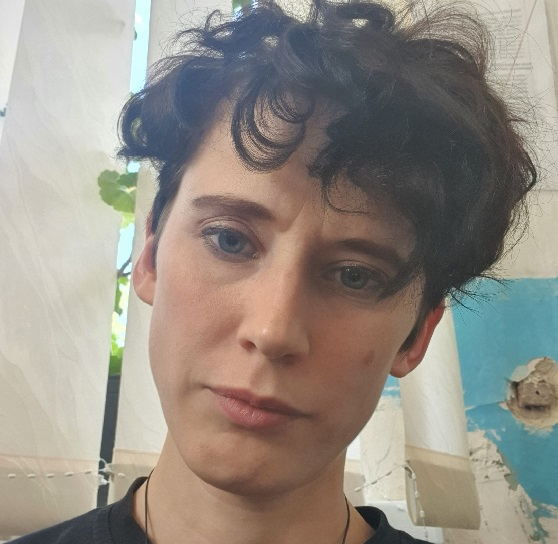
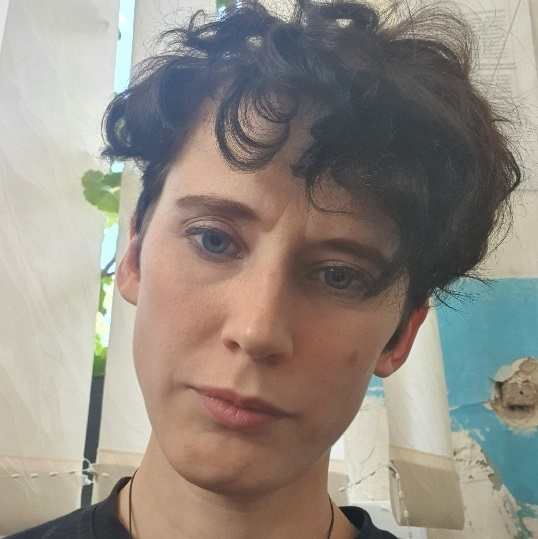
попиталась зробити сторінку новин, але акордеон не працює
сторінка новин. фотки деяких працівників загрузила, адаптивна верстка слайдера знов хромала, підправила

diff --git a/css/style.min.css b/css/style.min.css
@@ -1,1 +1,1 @@
-@import url(https://fonts.googleapis.com/css2?family=Ribeye+Marrow&display=swap);body{font-family:'Ribeye Marrow',sans-serif;color:#000}*{box-sizing:border-box}.header{padding:15px 0 0 15px;background-color:#7ee5e5;display:block;position:fixed;z-index:2;width:100%}.post{margin-left:53px;height:25px;background:#c57226;padding:5px}.block{display:inline-block;margin:0 40px 0 0}.logo{display:inline-block;background-color:#000;color:#e3ae7d;padding:10px 3px;margin-right:5px;font-size:18px}.csp{font-size:18px}.button{border:solid;border-color:#000;border-width:1px;background-color:#e3ae7d;padding:15px 45px;text-decoration:none;color:#000;margin:30px 0 200px 0;border-radius:5px;cursor:pointer}.aboutsheet{display:none;position:fixed;height:50%;width:50%;left:50%;top:50%;transform:translate(-50%,-50%);border:solid;border-color:#000;border-width:1px;background-color:#e3ae7d;border-radius:5px;padding:5%}.aboutsheet h2{text-align:center;color:#000;font-size:25px}.aboutsheet p{padding-top:10px;color:#000;font-size:15px}.inline-header{text-decoration:none;color:#000;margin:0 40px 0 0}.viddil{margin:200px 0 -430px 0}.viddil-old{color:#807ee5;background-color:#fff;padding:15px;height:330px;box-shadow:0 4px 4px #50a058;border-radius:30px;text-align:center}.viddil-fam{color:#00c814;background-color:#fff;padding:15px;height:330px;box-shadow:0 4px 4px #50a058;border-radius:30px;text-align:center}.brown-writings{color:#7d532b}#pos{text-shadow:1px 1px 2px #7d532b;display:inline-block;font-size:36px;margin-right:20px}.ne-pos{display:inline-block;text-shadow:1px 1px 2px red;font-size:36px}.section1{background:#fff url(../img/main-background.png) center center no-repeat;font-size:14px;padding:0 0 300px 0}.section1and2{background:#7ee5e5 url(../img/section1-2-background.png) center center no-repeat}.section2{font-size:14px;background-color:#fff}.section2 h2{font-size:36px;line-height:1.3;margin:190px 0 35px 0}.section2 h3{font-size:22px;vertical-align:top;line-height:1.2;padding-bottom:5px}.section3{padding:70px 0 0 0;background-color:#f1dac5}.section3 h3{text-shadow:1px 1px 2px red;font-size:24px;margin-bottom:25px}.section4{background-color:#00c814;color:#ddffc9;font-size:36px;padding:50px 0 30px 0;font-size:14px}.section4 p{font-size:22px}.section4 h2{padding-bottom:30px;padding-top:10px}.section5{background-color:#000;color:#fff;padding:50px 0 40px 0}.section1 h1{padding:150px 0 20px 0;font-size:48px;line-height:1.4}.section1 .subtitle{font-size:24px;line-height:1.5;padding:0 0 50px 0}.star img{height:100px;float:left}.star *{margin:0}.star{vertical-align:top;display:inline-block;height:135px;width:510px}.long{width:600px}.down{margin-bottom:10px}.box1,.box2{background-color:#fff;height:166px;width:200px;display:inline-block;font-size:16px;text-align:center;margin:0 15px 30px 0;vertical-align:top;border-radius:30px}.box1{box-shadow:1px 5px 5px #7d532b}.box2{box-shadow:1px 5px 5px red}.box11,.box26,.box27,.box30{padding:32px 0}.box13,.box15,.box21,.box28{padding:20px 0}.box12,.box16,.box22,.box23,.box25,.box31{padding:7px 0}.box24{padding:44px 0}.box29{padding:56px 0}.people-block{margin-right:15px;background-color:transparent;border-radius:30px;margin-bottom:1%}.people-block h3{text-align:center}.people-block p{display:none}.podlozhka{display:none}#contact{font-size:22px;line-height:2}.triangles img{height:30px}.triangles{display:inline-block;padding-top:70px;margin-left:-14px}.box11 img{margin-top:-55px;margin-left:30px}.box1 img{position:absolute}.box2 img{position:absolute}.box21 img{margin-left:-31px;margin-top:-52px}.box22 img{margin-left:-35px;margin-top:-25px}.box23 img{margin-left:-40px;margin-top:95px}.box24 img{margin-left:-30px;margin-top:-70px}.box12 img{margin-left:44px;margin-top:-54px}.box13 img{margin-left:35px;margin-top:-40px}.box14 img{margin-left:-18px;margin-top:28px}.box25 img{margin-left:-53px;margin-top:133px}.box26 img{margin-left:-50px;margin-top:-40px}.box15 img{margin-left:-55px;margin-top:-55px}.box27 img{margin-left:-6px;margin-top:93px}.box28 img{margin-left:-66px;margin-top:-52px}.box29 img{margin-left:-75px;margin-top:-37px}.box30 img{margin-left:68px;margin-top:-42px}.box31 img{margin-left:105px;margin-top:15px}.box16 img{margin-left:125px;margin-top:-35px}.viddil-old img{height:100%;padding:0;margin-left:-45px;margin-top:-45px;background:0 0}.viddil-fam img{height:110%;padding:0;background:0 0;margin-left:-20px;margin-top:-45px}.people-slider{position:relative}.prev{width:50px;height:75px;z-index:1;background:transparent url(../img/leftbutton.png) center center no-repeat;border:none;position:absolute;margin-top:140px;margin-left:-25px}.next{width:50px;height:75px;background:transparent url(../img/rightbutton.png) center center no-repeat;border:none;position:absolute;right:-10px;top:140px}.photo{width:90%;height:80%;padding:5%;margin-left:5%;border-radius:30px}.menu{height:60px;width:40px;background:#fff;position:fixed}
+@import url(https://fonts.googleapis.com/css2?family=Ribeye+Marrow&display=swap);body{font-family:'Ribeye Marrow',sans-serif;color:#000}*{box-sizing:border-box}.header{padding:15px 0 0 15px;background-color:#7ee5e5;display:block;position:fixed;z-index:2;width:100%}.post{margin-left:53px;height:25px;background:#c57226;padding:5px}.block{display:inline-block;margin:0 40px 0 0}.logo{display:inline-block;background-color:#000;color:#e3ae7d;padding:10px 3px;margin-right:5px;font-size:18px}.csp{font-size:18px}.button{border:solid;border-color:#000;border-width:1px;background-color:#e3ae7d;padding:15px 45px;text-decoration:none;color:#000;margin:30px 0 200px 0;border-radius:5px;cursor:pointer}.aboutsheet{display:none;position:fixed;height:50%;width:50%;left:50%;top:50%;transform:translate(-50%,-50%);border:solid;border-color:#000;border-width:1px;background-color:#e3ae7d;border-radius:5px;padding:5%}.aboutsheet h2{text-align:center;color:#000;font-size:25px}.aboutsheet p{padding-top:10px;color:#000;font-size:15px}.inline-header{text-decoration:none;color:#000;margin:0 40px 0 0}.viddil{margin:200px 0 -430px 0}.viddil-old{color:#807ee5;background-color:#fff;padding:15px;height:330px;box-shadow:0 4px 4px #50a058;border-radius:30px;text-align:center}.viddil-fam{color:#00c814;background-color:#fff;padding:15px;height:330px;box-shadow:0 4px 4px #50a058;border-radius:30px;text-align:center}.brown-writings{color:#7d532b}#pos{text-shadow:1px 1px 2px #7d532b;display:inline-block;font-size:36px;margin-right:20px}.ne-pos{display:inline-block;text-shadow:1px 1px 2px red;font-size:36px}.section1{background:#fff url(../img/main-background.png) center center no-repeat;font-size:14px;padding:0 0 300px 0}.section1and2{background:#7ee5e5 url(../img/section1-2-background.png) center center no-repeat}.section2{font-size:14px;background-color:#fff}.section2 h2{font-size:36px;line-height:1.3;margin:190px 0 35px 0}.section2 h3{font-size:22px;vertical-align:top;line-height:1.2;padding-bottom:5px}.section3{padding:70px 0 0 0;background-color:#f1dac5}.section3 h3{text-shadow:1px 1px 2px red;font-size:24px;margin-bottom:25px}.section4{background-color:#00c814;color:#ddffc9;font-size:36px;padding:50px 0 30px 0;font-size:14px}.section4 p{font-size:22px}.section4 h2{padding-bottom:30px;padding-top:10px}.section5{background-color:#000;color:#fff;padding:50px 0 40px 0}.section1 h1{padding:150px 0 20px 0;font-size:48px;line-height:1.4}.section1 .subtitle{font-size:24px;line-height:1.5;padding:0 0 50px 0}.star img{height:100px;float:left}.star *{margin:0}.star{vertical-align:top;display:inline-block;height:135px;width:510px}.long{width:600px}.down{margin-bottom:10px}.box1,.box2{background-color:#fff;height:166px;width:200px;display:inline-block;font-size:16px;text-align:center;margin:0 15px 30px 0;vertical-align:top;border-radius:30px}.box1{box-shadow:1px 5px 5px #7d532b}.box2{box-shadow:1px 5px 5px red}.box11,.box26,.box27,.box30{padding:32px 0}.box13,.box15,.box21,.box28{padding:20px 0}.box12,.box16,.box22,.box23,.box25,.box31{padding:7px 0}.box24{padding:44px 0}.box29{padding:56px 0}.people-block{margin-right:15px;background-color:transparent;border-radius:30px;margin-bottom:1%}.people-block h3{text-align:center}.people-block p{display:none}.podlozhka{display:none}#contact{font-size:22px;line-height:2}.triangles img{height:30px}.triangles{display:inline-block;padding-top:70px;margin-left:-14px}.box11 img{margin-top:-55px;margin-left:30px}.box1 img{position:absolute}.box2 img{position:absolute}.box21 img{margin-left:-31px;margin-top:-52px}.box22 img{margin-left:-35px;margin-top:-25px}.box23 img{margin-left:-40px;margin-top:95px}.box24 img{margin-left:-30px;margin-top:-70px}.box12 img{margin-left:44px;margin-top:-54px}.box13 img{margin-left:35px;margin-top:-40px}.box14 img{margin-left:-18px;margin-top:28px}.box25 img{margin-left:-53px;margin-top:133px}.box26 img{margin-left:-50px;margin-top:-40px}.box15 img{margin-left:-55px;margin-top:-55px}.box27 img{margin-left:-6px;margin-top:93px}.box28 img{margin-left:-66px;margin-top:-52px}.box29 img{margin-left:-75px;margin-top:-37px}.box30 img{margin-left:68px;margin-top:-42px}.box31 img{margin-left:105px;margin-top:15px}.box16 img{margin-left:125px;margin-top:-35px}.viddil-old img{height:100%;padding:0;margin-left:-45px;margin-top:-45px;background:0 0}.viddil-fam img{height:110%;padding:0;background:0 0;margin-left:-20px;margin-top:-45px}.people-slider{position:relative}.prev{width:50px;height:75px;z-index:1;background:transparent url(../img/leftbutton.png) center center no-repeat;border:none;position:absolute;margin-top:140px;margin-left:-25px}.next{width:50px;height:75px;background:transparent url(../img/rightbutton.png) center center no-repeat;border:none;position:absolute;right:-10px;top:140px}.photo{width:90%;height:80%;padding:5%;margin-left:5%;border-radius:30px}.menu{height:60px;width:40px;background:#fff;position:fixed}.newsh1{text-align:center;background-color:#000;color:#ff0;margin-bottom:0}.mainlink{position:fixed;top:12px;color:#fff;text-decoration:none;font-size:12px}.mainlink:hover{color:#ff0;text-decoration:underline}.cspphoto{width:100%}.collapse{display:block}

diff --git a/news.html b/news.html
@@ -4,10 +4,65 @@
 	<meta charset="UTF-8">
 	<meta name="viewport" content="width=device-width, initial-scale=1.0">
 	<title>Новини центру соціальних послуг</title>
+	<link rel="stylesheet" href="slick/slick.css">
+	<link rel="stylesheet" href="slick/slick-theme.css">
+	<link rel="stylesheet" href="css/bootstrap.css">
 	<link rel="stylesheet" href="css/style.css">
+	<link rel="stylesheet" href="css/main.css">
 </head>
 <body>
-	<h1>Новини Центру соціальних послуг Буцької селищної ради</h1>
-	<a class="inline-header" href="index.html">На головну</a>
+	<h1 class="newsh1">Новини Центру соціальних послуг Буцької селищної ради</h1>
+	<a class="mainlink" href="index.html">На головну</a>
+	<img class="cspphoto" src="img/csp.jpg" alt="ЦСП">
+	<div class="panel-group" id="accordion" role="tablist" aria-multiselectable="true">
+  <div class="panel panel-default">
+    <div class="panel-heading" role="tab" id="headingOne">
+      <h4 class="panel-title">
+        <a role="button" data-toggle="collapse" data-parent="#accordion" href="#collapseOne" aria-expanded="true" aria-controls="collapseOne">
+          Collapsible Group Item #1
+        </a>
+      </h4>
+    </div>
+    <div id="collapseOne" class="panel-collapse collapse in" role="tabpanel" aria-labelledby="headingOne">
+      <div class="panel-body">
+        Anim pariatur cliche reprehenderit, enim eiusmod high life accusamus terry richardson ad squid. 3 wolf moon officia aute, non cupidatat skateboard dolor brunch. Food truck quinoa nesciunt laborum eiusmod. Brunch 3 wolf moon tempor, sunt aliqua put a bird on it squid single-origin coffee nulla assumenda shoreditch et. Nihil anim keffiyeh helvetica, craft beer labore wes anderson cred nesciunt sapiente ea proident. Ad vegan excepteur butcher vice lomo. Leggings occaecat craft beer farm-to-table, raw denim aesthetic synth nesciunt you probably haven't heard of them accusamus labore sustainable VHS.
+      </div>
+    </div>
+  </div>
+  <div class="panel panel-default">
+    <div class="panel-heading" role="tab" id="headingTwo">
+      <h4 class="panel-title">
+        <a class="collapsed" role="button" data-toggle="collapse" data-parent="#accordion" href="#collapseTwo" aria-expanded="false" aria-controls="collapseTwo">
+          Collapsible Group Item #2
+        </a>
+      </h4>
+    </div>
+    <div id="collapseTwo" class="panel-collapse collapse" role="tabpanel" aria-labelledby="headingTwo">
+      <div class="panel-body">
+        Anim pariatur cliche reprehenderit, enim eiusmod high life accusamus terry richardson ad squid. 3 wolf moon officia aute, non cupidatat skateboard dolor brunch. Food truck quinoa nesciunt laborum eiusmod. Brunch 3 wolf moon tempor, sunt aliqua put a bird on it squid single-origin coffee nulla assumenda shoreditch et. Nihil anim keffiyeh helvetica, craft beer labore wes anderson cred nesciunt sapiente ea proident. Ad vegan excepteur butcher vice lomo. Leggings occaecat craft beer farm-to-table, raw denim aesthetic synth nesciunt you probably haven't heard of them accusamus labore sustainable VHS.
+      </div>
+    </div>
+  </div>
+  <div class="panel panel-default">
+    <div class="panel-heading" role="tab" id="headingThree">
+      <h4 class="panel-title">
+        <a class="collapsed" role="button" data-toggle="collapse" data-parent="#accordion" href="#collapseThree" aria-expanded="false" aria-controls="collapseThree">
+          Collapsible Group Item #3
+        </a>
+      </h4>
+    </div>
+    <div id="collapseThree" class="panel-collapse collapse" role="tabpanel" aria-labelledby="headingThree">
+      <div class="panel-body">
+        Anim pariatur cliche reprehenderit, enim eiusmod high life accusamus terry richardson ad squid. 3 wolf moon officia aute, non cupidatat skateboard dolor brunch. Food truck quinoa nesciunt laborum eiusmod. Brunch 3 wolf moon tempor, sunt aliqua put a bird on it squid single-origin coffee nulla assumenda shoreditch et. Nihil anim keffiyeh helvetica, craft beer labore wes anderson cred nesciunt sapiente ea proident. Ad vegan excepteur butcher vice lomo. Leggings occaecat craft beer farm-to-table, raw denim aesthetic synth nesciunt you probably haven't heard of them accusamus labore sustainable VHS.
+      </div>
+    </div>
+  </div>
+</div>
+<script>
+$('.collapse').collapse('toggle');
+</script>
+<script src='https://code.jquery.com/jquery-1.12.4.min.js'></script>
+	<script src='https://code.jquery.com/jquery-migrate-3.4.0.min.js'></script>
+	<script src='slick/slick.min.js'></script>
 </body>
 </html>

diff --git a/index.html b/index.html
@@ -35,7 +35,7 @@
 		</div>
 	</div>
 </div>
-<div class="panel"></div>
+<div class="menu-button"></div>
 </div>
 	<div class="container">
 		<div class="section1">
@@ -213,7 +213,7 @@
 					<div class="people-block">
 						<div class="podlozhka"></div>
 <picture>
-	<img class="photo" src="img/profile.jpg" alt="Director">
+	<img class="photo" src="img/director.jpg" alt="Director">
 </picture>
 <h3>Директор</h3>
 <p>СТЕЦЕНКО <br> Тетяна <br>Олександрівна</p>	
@@ -221,7 +221,7 @@
 			<div class="people-block">
 				<div class="podlozhka"></div>
 				<picture>
-		<img class="photo" src="img/profile.jpg" alt="FSR">
+		<img class="photo" src="img/fcr.jpg" alt="FSR">
 				</picture>
 				<h3>Фахівець з соціальних <br>робіт</h3>
 				<p>ТИМОШЕНКО <br> Аліна Юріївна</p>
@@ -319,10 +319,10 @@
 	<script src='slick/slick.min.js'></script>
 	<script>
 				$(document).ready(function(){
-				$('.panel').on('click', function(event){
+				$('.menu-button').on('click', function(event){
 					event.preventDefault();
 					$('.menu').show(); });
-					$(document).on('click',function(e){if(!(($(e.target).closest('.menu').length > 0 ) || ($(e.target).closest('.panel').length > 0))){$('.menu').hide();}});
+					$(document).on('click',function(e){if(!(($(e.target).closest('.menu').length > 0 ) || ($(e.target).closest('.menu-button').length > 0))){$('.menu').hide();}});
 $('.about').on('click', function(event){
 					event.preventDefault();
 					$('.aboutsheet').show(); });

diff --git a/css/main.css b/css/main.css
@@ -6,7 +6,7 @@
   color: black;
   text-decoration: underline;
 }
-.panel {
+.menu-button {
   display: none;
 }
 .menu {
@@ -37,7 +37,16 @@
   border-radius: 13px;
   background-color: rgba(255, 0, 0, 0.5);
 }
+.section4 h3 {
+  font-size: 27px;
+}
 @media (max-width: 1199.98px) {
+  .mainlink {
+    top: 30px;
+  }
+  .section4 h3 {
+    font-size: 22px;
+  }
   .prev {
     margin-top: 100px;
   }
@@ -77,7 +86,7 @@
   .me {
     margin-top: 7px;
   }
-  .panel {
+  .menu-button {
     display: none;
   }
   .menu {
@@ -100,7 +109,7 @@
   .block {
     display: none;
   }
-  .panel {
+  .menu-button {
     display: none;
   }
   .post {
@@ -163,9 +172,11 @@
   }
   .prev {
     margin-top: 80px;
+    margin-left: -35px;
   }
   .next {
     top: 80px;
+    right: -20px;
   }
   .hoverafterimg {
     display: none;
@@ -178,7 +189,7 @@
   .header .post {
     display: none;
   }
-  .panel {
+  .menu-button {
     display: inline-block;
     position: absolute;
     margin-left: 25%;
@@ -187,7 +198,7 @@
     width: 47px;
     background: url(../img/panel.png) center center no-repeat;
   }
-  .panel:focus {
+  .menu-button:focus {
     border-color: black;
   }
   .menu {
@@ -336,7 +347,7 @@
   .section4 h2 {
     text-align: center;
   }
-  .panel {
+  .menu-button {
     display: inline-block;
     position: absolute;
     margin-left: 0;
@@ -345,7 +356,7 @@
     width: 47px;
     background: url(../img/panel.png) center center no-repeat;
   }
-  .panel:focus {
+  .menu-button:focus {
     border-color: black;
   }
   .menu {

diff --git a/css/style.css b/css/style.css
@@ -378,5 +378,27 @@ border-radius: 30px;
 	width: 40px;
 	background: #fff;
 	position: fixed;
-
+}
+.newsh1 {
+	text-align: center;
+	background-color: black;
+	color: yellow;
+	margin-bottom: 0;
+}
+.mainlink {
+	position: fixed;
+	top: 12px;
+	color: white;
+	text-decoration: none;
+	font-size: 12px;
+}
+.mainlink:hover {
+	color: yellow;
+	text-decoration: underline;
+}
+.cspphoto {
+	width: 100%;
+}
+.collapse {
+	display: block;
 }
